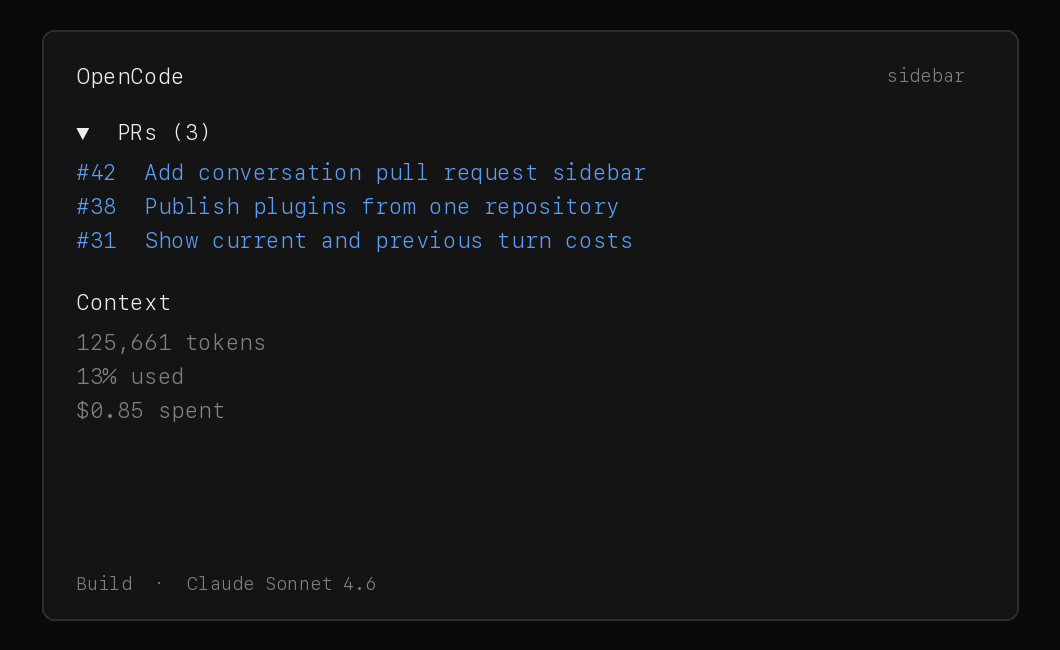
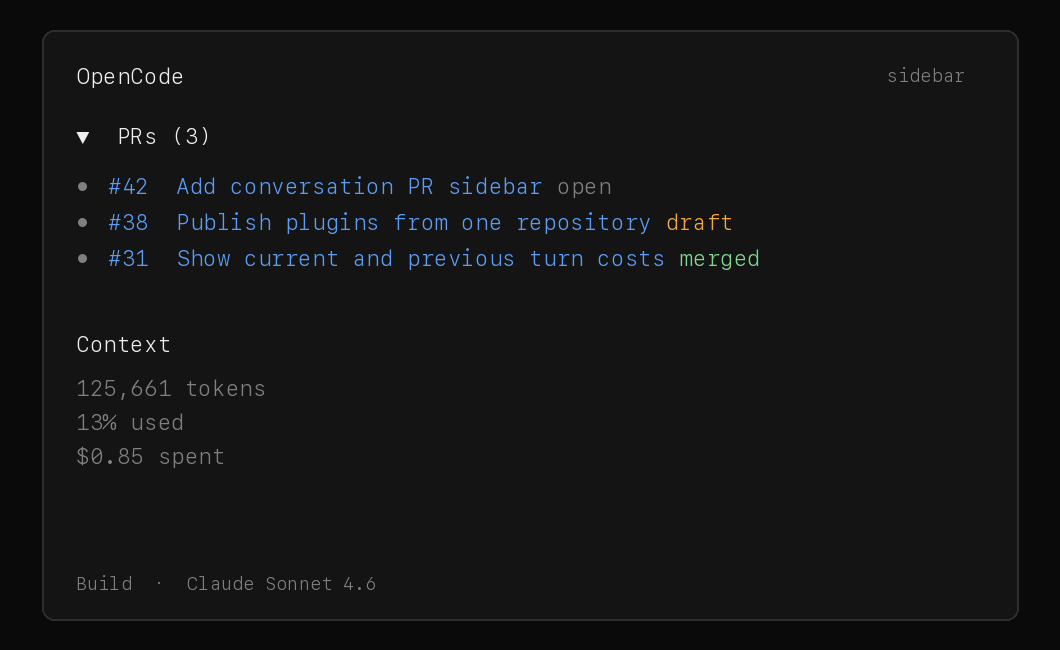
[opencode-prs] show compact PR statuses (#7)

diff --git a/packages/prs/src/tui.tsx b/packages/prs/src/tui.tsx
@@ -5,7 +5,14 @@ import { createEffect, createSignal, For, onCleanup, onMount, Show, type Accesso
 import type { RGBA } from "@opentui/core"
 import type { TuiPlugin, TuiPluginApi } from "@opencode-ai/plugin/tui"
 import type { Plugin } from "plugin-v2/tui"
-import { extractPullRequests, truncate, uniquePullRequests, type PullRequest, type PullRequestRef } from "./prs.js"
+import {
+  extractPullRequests,
+  pullRequestStatus,
+  truncate,
+  uniquePullRequests,
+  type PullRequest,
+  type PullRequestRef,
+} from "./prs.js"
 
 const execFileAsync = promisify(execFile)
 const REFRESH_MS = 60_000
@@ -15,8 +22,8 @@ type Message = { type?: string; text?: string; content?: unknown[] }
 
 async function fetchPullRequest(ref: PullRequestRef): Promise<PullRequest | undefined> {
   try {
-    const { stdout } = await execFileAsync("gh", ["pr", "view", ref.url, "--json", "title,state,url,number"])
-    const data = JSON.parse(stdout) as Pick<PullRequest, "title" | "state" | "url" | "number">
+    const { stdout } = await execFileAsync("gh", ["pr", "view", ref.url, "--json", "title,state,url,number,isDraft"])
+    const data = JSON.parse(stdout) as Pick<PullRequest, "title" | "state" | "url" | "number" | "isDraft">
     return { ...ref, ...data }
   } catch {
     return undefined
@@ -79,6 +86,8 @@ function PullRequests(props: {
   foreground: string | RGBA
   subdued: string | RGBA
   link: string | RGBA
+  success: string | RGBA
+  warning: string | RGBA
 }) {
   const [open, setOpen] = createSignal(true)
   const [prs, setPrs] = createSignal<PullRequest[]>([])
@@ -88,7 +97,7 @@ function PullRequests(props: {
     const refs = uniquePullRequests(extractPullRequests(`${history}\n${props.text()}`))
     const results = await Promise.all(refs.map(fetchPullRequest))
     setUnavailable(refs.length > 0 && results.every((result) => result === undefined))
-    setPrs(results.filter((result): result is PullRequest => result?.state === "OPEN"))
+    setPrs(results.filter((result): result is PullRequest => result !== undefined && result.state !== "CLOSED"))
   }
   createEffect(() => {
     props.text()
@@ -110,9 +119,14 @@ function PullRequests(props: {
       </box>
       <Show when={open()}>
         <Show when={unavailable()}><text fg={props.subdued}>GitHub unavailable</text></Show>
-        <Show when={!unavailable() && prs().length === 0}><text fg={props.subdued}>No open PRs</text></Show>
+        <Show when={!unavailable() && prs().length === 0}><text fg={props.subdued}>No PRs</text></Show>
         <For each={prs()}>{(pr) => (
-          <text fg={props.link}><a href={pr.url}>#{pr.number} {truncate(pr.title, 42)}</a></text>
+          <text fg={props.subdued}>
+            • <a href={pr.url}>#{pr.number} {truncate(pr.title, 32)}</a>{" "}
+            <span style={{ fg: pr.state === "MERGED" ? props.success : pr.isDraft ? props.warning : props.subdued }}>
+              {pullRequestStatus(pr)}
+            </span>
+          </text>
         )}</For>
       </Show>
     </box>
@@ -130,6 +144,8 @@ function setup(context: Context) {
         foreground={context.theme.text.default}
         subdued={context.theme.text.subdued}
         link={context.theme.markdown.link}
+        success={context.theme.status.success}
+        warning={context.theme.status.warning}
       />
     ),
   })
@@ -147,6 +163,8 @@ const tui: TuiPlugin = async (api) => {
           foreground={api.theme.current.text}
           subdued={api.theme.current.textMuted}
           link={api.theme.current.markdownLink}
+          success={api.theme.current.success}
+          warning={api.theme.current.warning}
         />
       },
     },

diff --git a/packages/prs/test/prs.test.js b/packages/prs/test/prs.test.js
@@ -1,6 +1,6 @@
 import assert from "node:assert/strict"
 import { test } from "node:test"
-import { extractPullRequests, truncate, uniquePullRequests } from "../dist/prs.js"
+import { extractPullRequests, pullRequestStatus, truncate, uniquePullRequests } from "../dist/prs.js"
 
 test("extracts and normalizes GitHub pull request links", () => {
   assert.deepEqual(extractPullRequests("See https://github.com/vvo/opencode-plugins/pull/12/files"), [{
@@ -15,3 +15,9 @@ test("removes duplicate pull requests", () => {
 })
 
 test("truncates long titles", () => assert.equal(truncate("a long title", 8), "a long …"))
+
+test("labels pull request states", () => {
+  assert.equal(pullRequestStatus({ state: "OPEN", isDraft: true }), "draft")
+  assert.equal(pullRequestStatus({ state: "OPEN", isDraft: false }), "open")
+  assert.equal(pullRequestStatus({ state: "MERGED", isDraft: false }), "merged")
+})

diff --git a/packages/prs/src/prs.ts b/packages/prs/src/prs.ts
@@ -1,5 +1,11 @@
 export type PullRequestRef = { owner: string; repo: string; number: number; url: string }
-export type PullRequest = PullRequestRef & { title: string; state: "OPEN" | "CLOSED" | "MERGED" }
+export type PullRequest = PullRequestRef & { title: string; state: "OPEN" | "CLOSED" | "MERGED"; isDraft: boolean }
+
+export function pullRequestStatus(pr: Pick<PullRequest, "state" | "isDraft">): "draft" | "open" | "merged" | "closed" {
+  if (pr.state === "MERGED") return "merged"
+  if (pr.state === "CLOSED") return "closed"
+  return pr.isDraft ? "draft" : "open"
+}
 
 const GITHUB_PR_URL = /https:\/\/github\.com\/([\w.-]+)\/([\w.-]+)\/pull\/(\d+)(?:\b|\/)/g
 

diff --git a/packages/prs/README.md b/packages/prs/README.md
@@ -1,10 +1,10 @@
 # opencode-prs
 
-[OpenCode](https://opencode.ai) TUI plugin that lists open GitHub pull requests referenced by the current session.
+[OpenCode](https://opencode.ai) TUI plugin that lists GitHub pull requests referenced by the current session.
 
 ![Open pull requests in the OpenCode sidebar](../../assets/prs.png)
 
-The sidebar section is collapsible. Each row shows the pull request number and title. Select a row to open it on GitHub.
+The sidebar section is collapsible. Each compact row links to GitHub and shows whether the pull request is draft, open, or merged.
 
 ## Install
 
@@ -24,7 +24,7 @@ Then restart OpenCode. The plugin requires an installed and authenticated [GitHu
 
 ## How it works
 
-The plugin finds GitHub pull request URLs in user messages, assistant replies, and completed tool output. It asks `gh` for the current title and state, then keeps open pull requests in the sidebar.
+The plugin finds GitHub pull request URLs in user messages, assistant replies, and completed tool output. It asks `gh` for the current title and state. Closed pull requests are hidden, while merged pull requests remain visible.
 
 One published package supports OpenCode 1 and OpenCode 2.
 

diff --git a/.changeset/tidy-prs-smile.md b/.changeset/tidy-prs-smile.md
@@ -1,0 +1,5 @@
+---
+"opencode-prs": patch
+---
+
+Use compact PR rows and show draft, open, and merged states.
